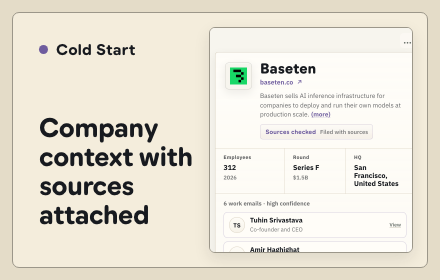
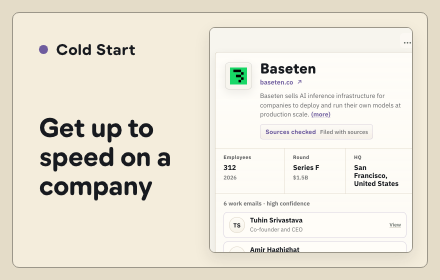
Clarify Chrome Web Store promo copy

Changed region(s): [[0.0886, 0.4286, 0.4432, 0.8]]

diff --git a/apps/extension/tests/e2e/store-assets.spec.ts b/apps/extension/tests/e2e/store-assets.spec.ts
@@ -310,7 +310,7 @@ function promoHtml(productImage: Buffer): string {
       <body>
         <main class="tile">
           <div class="brand"><span class="brand-mark"></span><span>Cold Start</span></div>
-          <h1>Company context with sources attached</h1>
+          <h1>Get up to speed on a company</h1>
           <div class="preview">
             <img src="${dataUrl(productImage, "image/png")}" alt="">
           </div>
